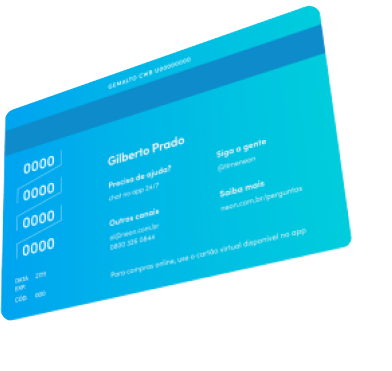
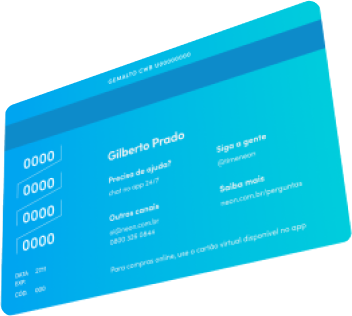
Section Hero finalizada

diff --git a/css/main.css b/css/main.css
@@ -1,1 +1,1 @@
-*{margin:0;padding:0;list-style:none;text-decoration:none;outline:none;border:none;box-sizing:border-box;font-family:'Inter', sans-serif}img{max-width:100%;display:block}html{font-size:62.5%}html,body{overflow-x:hidden}button{background-color:transparent;cursor:pointer}.container{width:100%;max-width:124.6rem;padding:0 15px;margin:0 auto}h1{font-weight:600;font-size:6.4rem}h2{font-weight:bold;font-size:4rem}h3{font-size:2.4rem;line-height:150%}h4{font-size:2rem;line-height:112%}h1,h2{line-height:112%;letter-spacing:-1px}h3,h4{font-weight:500;letter-spacing:-0.5px}h1,h2,h3,h4{font-family:'Poppins', sans-serif;color:#4E4B59}.card-depoimento{width:100%;max-width:38.4rem;height:20.9rem;background-color:rgba(241,240,245,0.55);border-radius:8px;padding:3.7rem 3.2rem 2.3rem 3.2rem}.card-depoimento .user{display:flex;flex-direction:row;align-items:center;justify-content:space-between;margin-bottom:2.1rem}.card-depoimento .user strong{font-family:'Poppins', sans-serif;font-weight:600;font-size:1.8rem;line-height:112%;letter-spacing:-1px;color:#4E4B59}.card-depoimento p{font-size:1.8rem;line-height:150%;color:#5F5C6B}.btn-primary,.btn-secondary{font-family:'Poppins', sans-serif;display:inline-block;line-height:4.8rem;padding:0 2.6rem;border-radius:12.2rem;font-weight:600;font-size:1.6rem}.btn-primary{background-color:#FFC800;color:#855B35;transition:background-color .3s}.btn-primary:hover{background-color:#FFDC5C}.btn-secondary{border:1px solid #00A5F0;background-color:transparent;color:#00A5F0;transition:all .3s}.btn-secondary:hover{background-color:#00A5F0;color:#ffffff}.btn-secondary.white{border:1px solid white;color:white}.btn-secondary.white:hover{background-color:white;color:#01C7DF}header{position:absolute;top:0;left:0;width:100%;height:8.8rem;display:flex;border-bottom:2px solid rgba(255,255,255,0.2)}header .container{display:flex;flex-direction:row;align-items:center;justify-content:space-between}header .container nav{display:flex;align-items:center}header .container nav ul{display:flex;align-items:center;margin-right:5.9rem}header .container nav ul li:not(:first-child){margin-left:4.8rem}header .container nav ul li a{font-family:'Poppins', sans-serif;font-weight:500;font-size:1.6rem;line-height:125%;color:#FFFFFF;transition:color .3s}header .container nav ul li a:hover{color:#FFC800}.s-hero{width:100%;height:78.6rem;background:url("../img/bg-hero.svg") no-repeat center center;padding-top:17.5rem}.s-hero .text{width:100%;max-width:68.4rem}.s-hero .text h3{opacity:0.8;font-weight:600;color:#FFFFFF;margin-bottom:3.2rem}.s-hero .text h1{color:#FFFFFF;margin-bottom:3.9rem}.s-hero .text ul{width:100%;max-width:62.1rem;margin-top:6.4rem;display:flex;align-items:center;justify-content:space-between}.s-hero .text ul li{display:flex;align-items:center}.s-hero .text ul li .icon{width:4.8rem;height:4.8rem;background:linear-gradient(180deg, rgba(53,203,226,0.4) 0%, rgba(53,202,226,0) 100%);border-radius:50%;display:flex;flex-direction:row;align-items:center;justify-content:center;margin-right:1.2rem}.s-hero .text ul span{font-size:1.8rem;line-height:2.2rem;color:#FFFFFF}
+*{margin:0;padding:0;list-style:none;text-decoration:none;outline:none;border:none;box-sizing:border-box;font-family:'Inter', sans-serif}img{max-width:100%;display:block}html{font-size:62.5%}html,body{overflow-x:hidden}button{background-color:transparent;cursor:pointer}.container{width:100%;max-width:124.6rem;padding:0 15px;margin:0 auto}h1{font-weight:600;font-size:6.4rem}h2{font-weight:bold;font-size:4rem}h3{font-size:2.4rem;line-height:150%}h4{font-size:2rem;line-height:112%}h1,h2{line-height:112%;letter-spacing:-1px}h3,h4{font-weight:500;letter-spacing:-0.5px}h1,h2,h3,h4{font-family:'Poppins', sans-serif;color:#4E4B59}.card-depoimento{width:100%;max-width:38.4rem;height:20.9rem;background-color:rgba(241,240,245,0.55);border-radius:8px;padding:3.7rem 3.2rem 2.3rem 3.2rem}.card-depoimento .user{display:flex;flex-direction:row;align-items:center;justify-content:space-between;margin-bottom:2.1rem}.card-depoimento .user strong{font-family:'Poppins', sans-serif;font-weight:600;font-size:1.8rem;line-height:112%;letter-spacing:-1px;color:#4E4B59}.card-depoimento p{font-size:1.8rem;line-height:150%;color:#5F5C6B}.btn-primary,.btn-secondary{font-family:'Poppins', sans-serif;display:inline-block;line-height:4.8rem;padding:0 2.6rem;border-radius:12.2rem;font-weight:600;font-size:1.6rem}.btn-primary{background-color:#FFC800;color:#855B35;transition:background-color .3s}.btn-primary:hover{background-color:#FFDC5C}.btn-secondary{border:1px solid #00A5F0;background-color:transparent;color:#00A5F0;transition:all .3s}.btn-secondary:hover{background-color:#00A5F0;color:#ffffff}.btn-secondary.white{border:1px solid white;color:white}.btn-secondary.white:hover{background-color:white;color:#01C7DF}header{position:absolute;top:0;left:0;width:100%;height:8.8rem;display:flex;border-bottom:2px solid rgba(255,255,255,0.2)}header .container{display:flex;flex-direction:row;align-items:center;justify-content:space-between}header .container nav{display:flex;align-items:center}header .container nav ul{display:flex;align-items:center;margin-right:5.9rem}header .container nav ul li:not(:first-child){margin-left:4.8rem}header .container nav ul li a{font-family:'Poppins', sans-serif;font-weight:500;font-size:1.6rem;line-height:125%;color:#FFFFFF;transition:color .3s}header .container nav ul li a:hover{color:#FFC800}.s-hero{width:100%;height:78.6rem;background:url("../img/bg-hero.svg") no-repeat center center;padding-top:17.5rem}.s-hero .container{display:flex;flex-direction:row;align-items:flex-start;justify-content:space-between}.s-hero .text{width:100%;max-width:68.4rem}.s-hero .text h3{opacity:0.8;font-weight:600;color:#FFFFFF;margin-bottom:3.2rem}.s-hero .text h1{color:#FFFFFF;margin-bottom:3.9rem}.s-hero .text ul{width:100%;max-width:62.1rem;margin-top:6.4rem;display:flex;align-items:center;justify-content:space-between}.s-hero .text ul li{display:flex;align-items:center}.s-hero .text ul li .icon{width:4.8rem;height:4.8rem;background:linear-gradient(180deg, rgba(53,203,226,0.4) 0%, rgba(53,202,226,0) 100%);border-radius:50%;display:flex;flex-direction:row;align-items:center;justify-content:center;margin-right:1.2rem}.s-hero .text ul span{font-size:1.8rem;line-height:2.2rem;color:#FFFFFF}.s-hero .area-image{width:100%;max-width:70.6rem;margin-right:-17.4rem}.s-hero .area-image h2{margin-bottom:6.7rem;text-align:center;color:#FFFFFF;opacity:0.4;font-weight:600}.s-hero .area-image .image{position:relative;top:3.5rem;width:100%;height:54.1rem}.s-hero .area-image .image img{position:absolute}.s-hero .area-image .image .card-front{top:4.1rem;left:0;z-index:2}.s-hero .area-image .image .card-back{bottom:4.6rem;right:8.6rem;z-index:1}.s-hero .area-image .image .circle{top:2.8rem;right:4.3rem}

diff --git a/index.html b/index.html
@@ -41,21 +41,29 @@
                         <div class="icon">
                             <img src="img/icon-cartao.svg" alt="Icone de cartao sem anuidade">
                         </div>
-                        <span>Cartão sem anuidade</span>
+                        <span>Cartão sem <br /> banuidade</span>
                     </li>
                     <li>
                         <div class="icon">
                             <img src="img/icon-conta.svg" alt="Icone de conta digital">
                         </div>
-                        <span>Conta digital 100% grátis</span>
+                        <span>Conta digital<br /> 100% grátis</span>
                     </li>
                     <li>
                         <div class="icon">
                             <img src="img/icon-dinheiro.svg" alt="Icone de dinheiro rendendo">
                         </div>
-                        <span>Seu dinheiro rendendo mais</span>
+                        <span>Seu dinheiro <br />rendendo mais</span>
                     </li>
                 </ul>
+            </div>
+            <div class="area-image">
+                <h2>Banco 100% digital</h2>
+                <div class="image">
+                    <img src="img/card-neon-front.png" class="card-front" alt="">
+                    <img src="img/card-neon-back.png" class="card-back" alt="">
+                    <img src="img/circle-cards-neon.svg" class="circle" alt="">
+                </div>
             </div>
         </div>
     </section>

diff --git a/scss/_home.scss b/scss/_home.scss
@@ -3,6 +3,9 @@
     height: 78.6rem;
     background: url("../img/bg-hero.svg") no-repeat center center;
     padding-top: 17.5rem;
+    .container {
+        @include flex(row, flex-start, space-between);
+    }
     .text {
         width: 100%;
         max-width: 68.4rem;
@@ -39,6 +42,41 @@
                 font-size: 1.8rem;
                 line-height: 2.2rem;
                 color: #FFFFFF;
+            }
+        }
+    }
+    .area-image {
+        width: 100%;
+        max-width: 70.6rem;
+        margin-right: -17.4rem;
+        h2 {
+            margin-bottom: 6.7rem;
+            text-align: center;
+            color: #FFFFFF;
+            opacity: 0.4;
+            font-weight: 600;
+        }
+        .image {
+            position: relative;
+            top: 3.5rem;
+            width: 100%;
+            height: 54.1rem;
+            img {
+                position: absolute;
+            }
+            .card-front {
+                top: 4.1rem;
+                left: 0;
+                z-index: 2;
+            }
+            .card-back {
+                bottom: 4.6rem;
+                right: 8.6rem;
+                z-index: 1;
+            }
+            .circle {
+                top: 2.8rem;
+                right: 4.3rem;
             }
         }
     }
